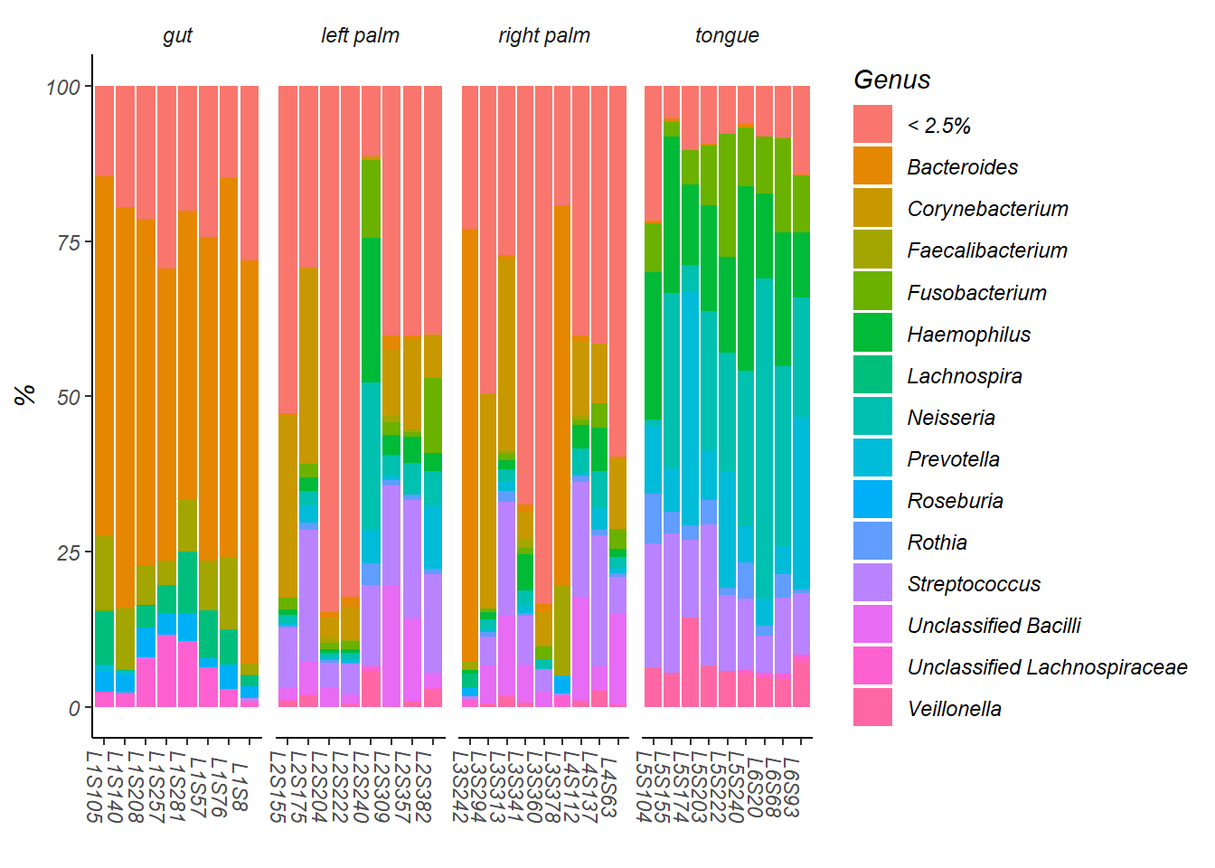
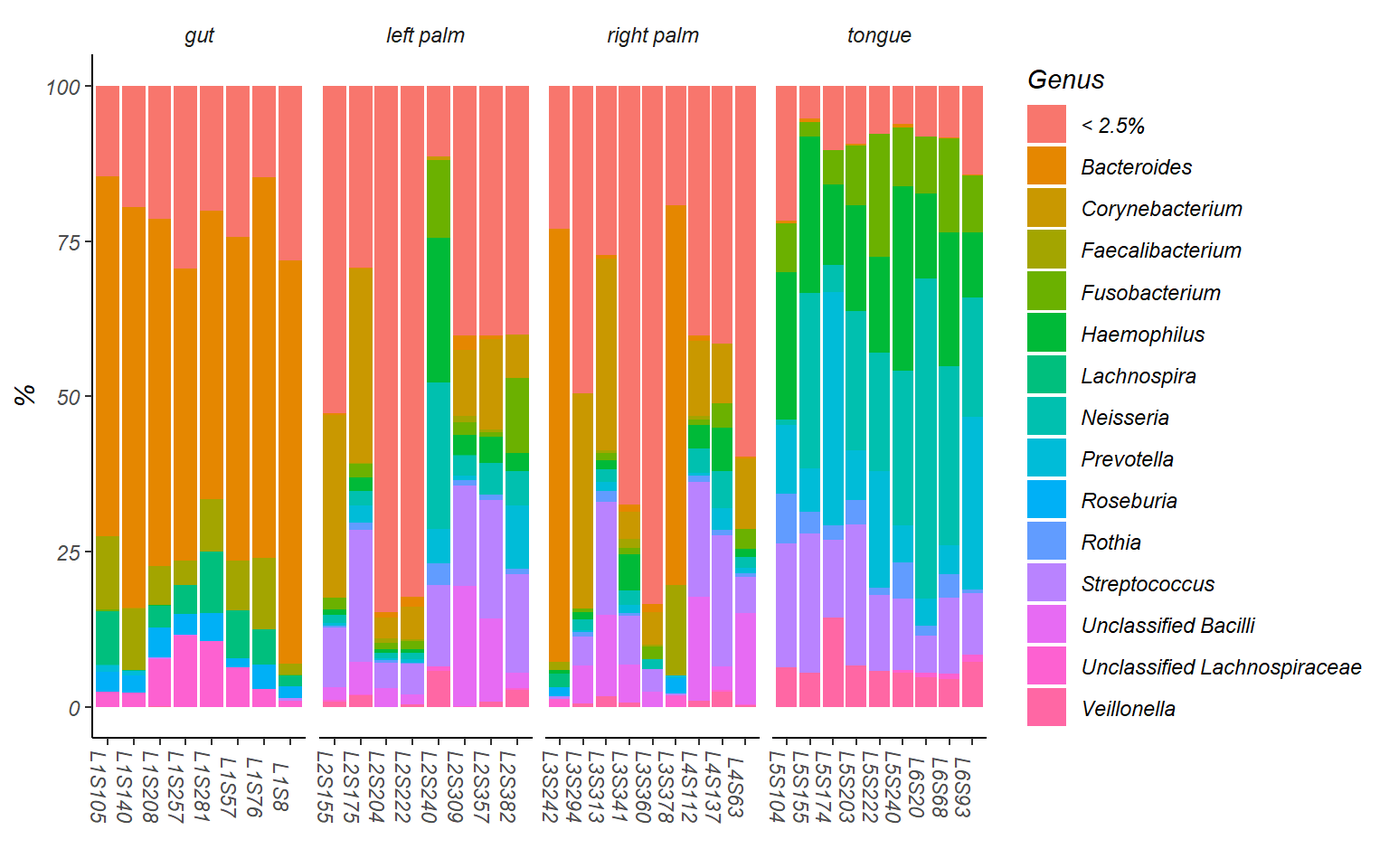
text corrections

diff --git a/docs/1_microbiome_r.html b/docs/1_microbiome_r.html
@@ -418,7 +418,7 @@ $(document).ready(function () {
 </ul>
 <div id="what-you-will-work-on" class="section level2">
 <h2>What you will work on</h2>
-<p>After sequencing, you will get some (<a href="https://en.wikipedia.org/wiki/FASTQ_format">fastq</a>/<a href="https://nanoporetech.com/nanopore-sequencing-data-analysis">fast5</a>/<a href="http://files.pacb.com/software/instrument/2.0.0/bas.h5%20Reference%20Guide.pdf">h5</a>) files from the sequencing. These files contain the base information e.g. quality of collected reads. If the sequenced sample is a mixed community, i.e. metagenomic sequencing, . There are plenty of strategies e.g. Amplicon/Shotgun sequencing to utilize these reads.</p>
+<p>After sequencing, you will get some (<a href="https://en.wikipedia.org/wiki/FASTQ_format">fastq</a>/<a href="https://nanoporetech.com/nanopore-sequencing-data-analysis">fast5</a>/<a href="http://files.pacb.com/software/instrument/2.0.0/bas.h5%20Reference%20Guide.pdf">h5</a>) files from the sequencing. These files contain the base information e.g. read quality. If the sequenced sample is a mixed community, i.e. metagenomics, you need to identify where the reads come from (specific species and samples). There are plenty of strategies for metagenomics such as amplicon and shotgun sequencing. But they give more or less similar <em>structural profiles</em>:</p>
 <ul>
 <li>Feature table (Necessary), a matrix containing the abundances of detected microbial features(OTUs, ASVs, microbial markers)</li>
 <li>Taxonomy table (Optional), an array indicating the taxonomy of the features, which can be integrated in <a href="https://biom-format.org/documentation/format_versions/biom-2.1.html">biom format</a>.</li>
@@ -428,7 +428,7 @@ $(document).ready(function () {
 </div>
 <div id="preparation" class="section level2">
 <h2>Preparation</h2>
-<p><strong>If you are using QIIME 2 pipeline</strong>, <a href="https://docs.qiime2.org/2020.11/concepts/">qza</a>(<em>zipped format named by QIIME 2</em>) files are what you needed. Below are the data from <a href="https://docs.qiime2.org/2020.11/tutorials/moving-pictures/">Moving Pictures</a>.</p>
+<p><strong>Start with QIIME 2 output</strong> Here QIIME 2 data is adopted as an example. If you don’t have QIIME 2 output, if can skip the <code>bash code</code> for <code>QIIME 2</code> below. All data is imported using R built-ins, but QIIME 2 need extra steps outside R. QIIME 2 data file is defined as <a href="https://docs.qiime2.org/2020.11/concepts/">qza</a> format , which is actually just <em>zipped</em> file. Below are data from the <a href="https://docs.qiime2.org/2020.11/tutorials/moving-pictures/">Moving Pictures</a> in QIIME 2.</p>
 <pre><code>## rooted-tree.qza
 ## sample-metadata.tsv
 ## table.qza
@@ -522,9 +522,9 @@ $(document).ready(function () {
 </div>
 <div id="check-the-sequencing-depth-with-rarefaction-curve" class="section level2">
 <h2>Check the sequencing depth with rarefaction curve</h2>
-<p><img src="1_microbiome_r_files/figure-html/rarefaction-1.png" width="672" /></p>
+<p><img src="1_microbiome_r_files/figure-html/rarefaction-1.png" width="768" /></p>
 <p>The sequencing depth is 4523.735 ± 2933.477 (mean ± SD), ranging from 897 to 9820.</p>
-<p>As we could see, a sequencing depth of 1000 has captured most taxonomic tags. To minimize the bias from varying sequenicng depth, it’s recommended to do a rarefaction before calculating diversity metrics. However, it’s <a href="https://journals.plos.org/ploscompbiol/article?id=10.1371/journal.pcbi.1003531">not always the rule of thumb</a>. To keep consistence with the <a href="https://docs.qiime2.org/2020.11/tutorials/moving-pictures/">QIIME 2 tutorial</a>, we rarefy (resample) all samples to the sequencing depth of 1103. (As it’s random sampling process, the result is unlikely to be identical as the <a href="https://docs.qiime2.org/2020.11/tutorials/moving-pictures/">QIIME 2 tutorial</a>)</p>
+<p>As we could see, a sequencing depth of 1000 has captured most taxonomic tags. To minimize the bias from varying sequenicng depth, it’s recommended to do a rarefaction before calculating diversity metrics. However, it’s <a href="https://journals.plos.org/ploscompbiol/article?id=10.1371/journal.pcbi.1003531">not always the rule of thumb</a>. To keep consistence with the <a href="https://docs.qiime2.org/2020.11/tutorials/moving-pictures/">Moving pictures tutorial</a>, we rarefy (resample) all samples to the sequencing depth of 1103. (As it’s random sampling process, the result is unlikely to be identical as the <a href="https://docs.qiime2.org/2020.11/tutorials/moving-pictures/">Moving pictures tutorial</a>)</p>
 <div class="sourceCode" id="cb7"><pre class="sourceCode r"><code class="sourceCode r"><span id="cb7-1"><a href="#cb7-1"></a><span class="kw">set.seed</span>(<span class="dv">111</span>) <span class="co"># keep result reproductive</span></span>
 <span id="cb7-2"><a href="#cb7-2"></a>ps.rarefied =<span class="st"> </span><span class="kw">rarefy_even_depth</span>(ps, <span class="dt">rngseed=</span><span class="dv">1</span>, <span class="dt">sample.size=</span><span class="dv">1103</span>, <span class="dt">replace=</span>F)</span></code></pre></div>
 <p>After rarefaction, the phyloseq looks like</p>
@@ -542,8 +542,8 @@ $(document).ready(function () {
 <span id="cb9-2"><a href="#cb9-2"></a><span class="st">  </span><span class="kw">geom_boxplot</span>() <span class="op">+</span></span>
 <span id="cb9-3"><a href="#cb9-3"></a><span class="st">  </span><span class="kw">theme_classic</span>() <span class="op">+</span></span>
 <span id="cb9-4"><a href="#cb9-4"></a><span class="st">  </span><span class="kw">theme</span>(<span class="dt">strip.background =</span> <span class="kw">element_blank</span>(), <span class="dt">axis.text.x.bottom =</span> <span class="kw">element_text</span>(<span class="dt">angle =</span> <span class="dv">-90</span>))</span></code></pre></div>
-<p><img src="1_microbiome_r_files/figure-html/alpha_diversity-1.png" width="672" /></p>
-<p>We could see tongue samples had the lowest alpha diversity. Next, some statistics: pairwise test with Wilcoxon rank-sum test, with fdr correction. For the number of observed tags,</p>
+<p><img src="1_microbiome_r_files/figure-html/alpha_diversity-1.png" width="768" /></p>
+<p>We could see tongue samples had the lowest alpha diversity. Next, some statistics: pairwise test with Wilcoxon rank-sum test, corrected by FDR method. For the number of observed tags,</p>
 <div class="sourceCode" id="cb10"><pre class="sourceCode r"><code class="sourceCode r"><span id="cb10-1"><a href="#cb10-1"></a>rich =<span class="st"> </span><span class="kw">estimate_richness</span>(ps.rarefied, <span class="dt">measures =</span> <span class="kw">c</span>(<span class="st">&quot;Observed&quot;</span>, <span class="st">&quot;Shannon&quot;</span>))</span>
 <span id="cb10-2"><a href="#cb10-2"></a>wilcox.observed &lt;-<span class="st"> </span><span class="kw">pairwise.wilcox.test</span>(rich<span class="op">$</span>Observed, </span>
 <span id="cb10-3"><a href="#cb10-3"></a>                                        <span class="kw">sample_data</span>(ps.rarefied)<span class="op">$</span>body.site, </span>
@@ -554,8 +554,8 @@ $(document).ready(function () {
 <span id="cb10-8"><a href="#cb10-8"></a><span class="st">  </span><span class="kw">gather</span>(<span class="dt">key=</span><span class="st">&quot;group2&quot;</span>, <span class="dt">value=</span><span class="st">&quot;p.adj&quot;</span>, <span class="op">-</span>group1) <span class="op">%&gt;%</span></span>
 <span id="cb10-9"><a href="#cb10-9"></a><span class="st">  </span><span class="kw">na.omit</span>()</span>
 <span id="cb10-10"><a href="#cb10-10"></a>tab.observed</span></code></pre></div>
-<div id="htmlwidget-198968b1f7866cb87503" style="width:100%;height:auto;" class="datatables html-widget"></div>
-<script type="application/json" data-for="htmlwidget-198968b1f7866cb87503">{"x":{"filter":"none","data":[["left palm","right palm","tongue","right palm","tongue","tongue"],["gut","gut","gut","left palm","left palm","right palm"],[0.309861519622914,1,0.0026441634012951,1,0.0026441634012951,0.0157960566577091]],"container":"<table class=\"display\">\n  <thead>\n    <tr>\n      <th>group1<\/th>\n      <th>group2<\/th>\n      <th>p.adj<\/th>\n    <\/tr>\n  <\/thead>\n<\/table>","options":{"columnDefs":[{"className":"dt-right","targets":2}],"order":[],"autoWidth":false,"orderClasses":false}},"evals":[],"jsHooks":[]}</script>
+<div id="htmlwidget-c58a3cfd46e52aab30d1" style="width:100%;height:auto;" class="datatables html-widget"></div>
+<script type="application/json" data-for="htmlwidget-c58a3cfd46e52aab30d1">{"x":{"filter":"none","data":[["left palm","right palm","tongue","right palm","tongue","tongue"],["gut","gut","gut","left palm","left palm","right palm"],[0.309861519622914,1,0.0026441634012951,1,0.0026441634012951,0.0157960566577091]],"container":"<table class=\"display\">\n  <thead>\n    <tr>\n      <th>group1<\/th>\n      <th>group2<\/th>\n      <th>p.adj<\/th>\n    <\/tr>\n  <\/thead>\n<\/table>","options":{"columnDefs":[{"className":"dt-right","targets":2}],"order":[],"autoWidth":false,"orderClasses":false}},"evals":[],"jsHooks":[]}</script>
 <p>Similarly for Shannon diversity,</p>
 <div class="sourceCode" id="cb11"><pre class="sourceCode r"><code class="sourceCode r"><span id="cb11-1"><a href="#cb11-1"></a>wilcox.shannon &lt;-<span class="st"> </span><span class="kw">pairwise.wilcox.test</span>(rich<span class="op">$</span>Shannon, </span>
 <span id="cb11-2"><a href="#cb11-2"></a>                                       <span class="kw">sample_data</span>(ps.rarefied)<span class="op">$</span>body.site, </span>
@@ -566,12 +566,12 @@ $(document).ready(function () {
 <span id="cb11-7"><a href="#cb11-7"></a><span class="st">  </span><span class="kw">gather</span>(<span class="dt">key=</span><span class="st">&quot;group2&quot;</span>, <span class="dt">value=</span><span class="st">&quot;p.adj&quot;</span>, <span class="op">-</span>group1) <span class="op">%&gt;%</span></span>
 <span id="cb11-8"><a href="#cb11-8"></a><span class="st">  </span><span class="kw">na.omit</span>()</span>
 <span id="cb11-9"><a href="#cb11-9"></a>tab.shannon</span></code></pre></div>
-<div id="htmlwidget-856e6535fd64a5c9fa2a" style="width:100%;height:auto;" class="datatables html-widget"></div>
-<script type="application/json" data-for="htmlwidget-856e6535fd64a5c9fa2a">{"x":{"filter":"none","data":[["left palm","right palm","tongue","right palm","tongue","tongue"],["gut","gut","gut","left palm","left palm","right palm"],[0.0748251748251748,0.17022977022977,0.0719045660222131,0.851814851814852,0.000987248046071575,0.00839160839160839]],"container":"<table class=\"display\">\n  <thead>\n    <tr>\n      <th>group1<\/th>\n      <th>group2<\/th>\n      <th>p.adj<\/th>\n    <\/tr>\n  <\/thead>\n<\/table>","options":{"columnDefs":[{"className":"dt-right","targets":2}],"order":[],"autoWidth":false,"orderClasses":false}},"evals":[],"jsHooks":[]}</script>
+<div id="htmlwidget-be909fc3e6a9583a4930" style="width:100%;height:auto;" class="datatables html-widget"></div>
+<script type="application/json" data-for="htmlwidget-be909fc3e6a9583a4930">{"x":{"filter":"none","data":[["left palm","right palm","tongue","right palm","tongue","tongue"],["gut","gut","gut","left palm","left palm","right palm"],[0.0748251748251748,0.17022977022977,0.0719045660222131,0.851814851814852,0.000987248046071575,0.00839160839160839]],"container":"<table class=\"display\">\n  <thead>\n    <tr>\n      <th>group1<\/th>\n      <th>group2<\/th>\n      <th>p.adj<\/th>\n    <\/tr>\n  <\/thead>\n<\/table>","options":{"columnDefs":[{"className":"dt-right","targets":2}],"order":[],"autoWidth":false,"orderClasses":false}},"evals":[],"jsHooks":[]}</script>
 </div>
 <div id="beta-diversity" class="section level2">
 <h2>Beta diversity</h2>
-<p>Beta diversity assess the dissimilarity between ecosystem, telling you to what extend one community is different from another. Here are some demo code using Bray Curtis and binary Jaccard distance. I personally do not recommend direct use of the UniFrac metrics supported by phyloseq, especially when your tree is not dichotomous. This will happen when some children branches lose their parents during rarefaction 😭. You need to re-root your tree in e.g. QIIME 2 if you run into this case, see <a href="https://github.com/joey711/phyloseq/issues/936">here</a>. Besides, the UniFrac calculation by phyloseq has not been checked with the source code, see the posts in <a href="https://github.com/joey711/phyloseq/issues/956">phyloseq issues</a> and <a href="https://forum.qiime2.org/t/very-different-weighted-unifrac-results-for-qiime2-versus-phyloseq/4591">QIIME 2 forum</a>. So it’s safer to use QIIME 2 version for now given that both QIIME and UniFrac concept came from the <a href="https://knightlab.ucsd.edu/">Knight lab</a>.</p>
+<p>Beta diversity assesses the dissimilarity between ecosystem, telling you to what extend one community is different from another. Here are some demo code using Bray Curtis and binary Jaccard distance. I personally do not recommend direct use of the UniFrac metrics supported by phyloseq, especially when your tree is not dichotomous. This will happen when some children branches lose their parents during rarefaction 😭. You need to re-root your tree in e.g. QIIME 2 if you run into this case, see <a href="https://github.com/joey711/phyloseq/issues/936">here</a>. Besides, the UniFrac calculation by phyloseq has not been checked with the source code, see the posts in <a href="https://github.com/joey711/phyloseq/issues/956">phyloseq issues</a> and <a href="https://forum.qiime2.org/t/very-different-weighted-unifrac-results-for-qiime2-versus-phyloseq/4591">QIIME 2 forum</a>. So it’s safer to use QIIME 2 version for now given that both QIIME and UniFrac concept came from the <a href="https://knightlab.ucsd.edu/">Knight lab</a>.</p>
 <div id="pcoa-and-permanovaadonis" class="section level4">
 <h4><a href="https://mb3is.megx.net/gustame/dissimilarity-based-methods/principal-coordinates-analysis">PCoA</a> and <a href="https://mb3is.megx.net/gustame/hypothesis-tests/manova/npmanova">PERMANOVA/ADONIS</a></h4>
 <ul>
@@ -583,14 +583,14 @@ $(document).ready(function () {
 <span id="cb12-3"><a href="#cb12-3"></a><span class="kw">plot_ordination</span>(ps.rarefied, ordination, <span class="dt">color=</span><span class="st">&quot;body.site&quot;</span>) <span class="op">+</span><span class="st"> </span></span>
 <span id="cb12-4"><a href="#cb12-4"></a><span class="st">  </span><span class="kw">theme_classic</span>() <span class="op">+</span></span>
 <span id="cb12-5"><a href="#cb12-5"></a><span class="st">  </span><span class="kw">theme</span>(<span class="dt">strip.background =</span> <span class="kw">element_blank</span>())</span></code></pre></div>
-<p><img src="1_microbiome_r_files/figure-html/pcoa_bray-1.png" width="672" /></p>
+<p><img src="1_microbiome_r_files/figure-html/pcoa_bray-1.png" width="768" /></p>
 <p><em>PERMANOVA/ADONIS</em></p>
 <div class="sourceCode" id="cb13"><pre class="sourceCode r"><code class="sourceCode r"><span id="cb13-1"><a href="#cb13-1"></a>metadata &lt;-<span class="st"> </span><span class="kw">data.frame</span>(<span class="kw">sample_data</span>(ps.rarefied))</span>
 <span id="cb13-2"><a href="#cb13-2"></a>test.adonis &lt;-<span class="st"> </span><span class="kw">adonis</span>(dist <span class="op">~</span><span class="st"> </span>body.site, <span class="dt">data =</span> metadata)</span>
 <span id="cb13-3"><a href="#cb13-3"></a>test.adonis &lt;-<span class="st"> </span><span class="kw">as.data.frame</span>(test.adonis<span class="op">$</span>aov.tab)</span>
 <span id="cb13-4"><a href="#cb13-4"></a>test.adonis</span></code></pre></div>
-<div id="htmlwidget-2baaa3f848dd16ef2591" style="width:100%;height:auto;" class="datatables html-widget"></div>
-<script type="application/json" data-for="htmlwidget-2baaa3f848dd16ef2591">{"x":{"filter":"none","data":[["body.site","Residuals","Total"],[3,27,30],[5.21390787395429,5.88330179759205,11.0972096715463],[1.7379692913181,0.217900066577483,null],[7.97599247497289,null,null],[0.469839538791715,0.530160461208285,1],[0.001,null,null]],"container":"<table class=\"display\">\n  <thead>\n    <tr>\n      <th> <\/th>\n      <th>Df<\/th>\n      <th>SumsOfSqs<\/th>\n      <th>MeanSqs<\/th>\n      <th>F.Model<\/th>\n      <th>R2<\/th>\n      <th>Pr(&gt;F)<\/th>\n    <\/tr>\n  <\/thead>\n<\/table>","options":{"columnDefs":[{"className":"dt-right","targets":[1,2,3,4,5,6]},{"orderable":false,"targets":0}],"order":[],"autoWidth":false,"orderClasses":false}},"evals":[],"jsHooks":[]}</script>
+<div id="htmlwidget-65f24cfd8c4a0e3e6164" style="width:100%;height:auto;" class="datatables html-widget"></div>
+<script type="application/json" data-for="htmlwidget-65f24cfd8c4a0e3e6164">{"x":{"filter":"none","data":[["body.site","Residuals","Total"],[3,27,30],[5.21390787395429,5.88330179759205,11.0972096715463],[1.7379692913181,0.217900066577483,null],[7.97599247497289,null,null],[0.469839538791715,0.530160461208285,1],[0.001,null,null]],"container":"<table class=\"display\">\n  <thead>\n    <tr>\n      <th> <\/th>\n      <th>Df<\/th>\n      <th>SumsOfSqs<\/th>\n      <th>MeanSqs<\/th>\n      <th>F.Model<\/th>\n      <th>R2<\/th>\n      <th>Pr(&gt;F)<\/th>\n    <\/tr>\n  <\/thead>\n<\/table>","options":{"columnDefs":[{"className":"dt-right","targets":[1,2,3,4,5,6]},{"orderable":false,"targets":0}],"order":[],"autoWidth":false,"orderClasses":false}},"evals":[],"jsHooks":[]}</script>
 <p><em>PAIRWISE PERMANOVA</em></p>
 <div class="sourceCode" id="cb14"><pre class="sourceCode r"><code class="sourceCode r"><span id="cb14-1"><a href="#cb14-1"></a>cbn &lt;-<span class="st"> </span><span class="kw">combn</span>(<span class="dt">x=</span><span class="kw">unique</span>(metadata<span class="op">$</span>body.site), <span class="dt">m =</span> <span class="dv">2</span>)</span>
 <span id="cb14-2"><a href="#cb14-2"></a>p &lt;-<span class="st"> </span><span class="kw">c</span>()</span>
@@ -606,8 +606,8 @@ $(document).ready(function () {
 <span id="cb14-12"><a href="#cb14-12"></a>p.adj &lt;-<span class="st"> </span><span class="kw">p.adjust</span>(p, <span class="dt">method =</span> <span class="st">&quot;BH&quot;</span>)</span>
 <span id="cb14-13"><a href="#cb14-13"></a>p.table &lt;-<span class="st"> </span><span class="kw">cbind.data.frame</span>(<span class="kw">t</span>(cbn), <span class="dt">p=</span>p, <span class="dt">p.adj=</span>p.adj)</span>
 <span id="cb14-14"><a href="#cb14-14"></a>p.table</span></code></pre></div>
-<div id="htmlwidget-b837bdd70c7e0cc7de8a" style="width:100%;height:auto;" class="datatables html-widget"></div>
-<script type="application/json" data-for="htmlwidget-b837bdd70c7e0cc7de8a">{"x":{"filter":"none","data":[["gut","gut","gut","left palm","left palm","right palm"],["left palm","right palm","tongue","right palm","tongue","tongue"],[0.001,0.003,0.001,0.942,0.001,0.002],[0.002,0.0036,0.002,0.942,0.002,0.003]],"container":"<table class=\"display\">\n  <thead>\n    <tr>\n      <th>1<\/th>\n      <th>2<\/th>\n      <th>p<\/th>\n      <th>p.adj<\/th>\n    <\/tr>\n  <\/thead>\n<\/table>","options":{"columnDefs":[{"className":"dt-right","targets":[2,3]}],"order":[],"autoWidth":false,"orderClasses":false}},"evals":[],"jsHooks":[]}</script>
+<div id="htmlwidget-ec2940e89f0fca8cde0f" style="width:100%;height:auto;" class="datatables html-widget"></div>
+<script type="application/json" data-for="htmlwidget-ec2940e89f0fca8cde0f">{"x":{"filter":"none","data":[["gut","gut","gut","left palm","left palm","right palm"],["left palm","right palm","tongue","right palm","tongue","tongue"],[0.001,0.003,0.001,0.942,0.001,0.002],[0.002,0.0036,0.002,0.942,0.002,0.003]],"container":"<table class=\"display\">\n  <thead>\n    <tr>\n      <th>1<\/th>\n      <th>2<\/th>\n      <th>p<\/th>\n      <th>p.adj<\/th>\n    <\/tr>\n  <\/thead>\n<\/table>","options":{"columnDefs":[{"className":"dt-right","targets":[2,3]}],"order":[],"autoWidth":false,"orderClasses":false}},"evals":[],"jsHooks":[]}</script>
 <p>As we could see, there’s no difference in composition between the left and right palm samples. Similar result can be found using binary Jaccard metrics. Adjust the <code>dist = distance(ps.rarefied, method="jaccard", binary = TRUE)</code> and <code>permanova_pairwise &lt;- adonis(distance(ps.subs, method="jaccard", binary = TRUE) ~ body.site, data = metadata_sub)</code>, give it a try</p>
 </div>
 <div id="nmds-and-anosim" class="section level4">
@@ -621,7 +621,7 @@ $(document).ready(function () {
 <div class="sourceCode" id="cb16"><pre class="sourceCode r"><code class="sourceCode r"><span id="cb16-1"><a href="#cb16-1"></a><span class="kw">plot_ordination</span>(ps.rarefied, ordination, <span class="dt">color=</span><span class="st">&quot;body.site&quot;</span>) <span class="op">+</span><span class="st"> </span></span>
 <span id="cb16-2"><a href="#cb16-2"></a><span class="st">  </span><span class="kw">theme_classic</span>() <span class="op">+</span></span>
 <span id="cb16-3"><a href="#cb16-3"></a><span class="st">  </span><span class="kw">theme</span>(<span class="dt">strip.background =</span> <span class="kw">element_blank</span>())</span></code></pre></div>
-<p><img src="1_microbiome_r_files/figure-html/unnamed-chunk-19-1.png" width="672" /></p>
+<p><img src="1_microbiome_r_files/figure-html/unnamed-chunk-19-1.png" width="768" /></p>
 <p><em>ANOSIM</em></p>
 <div class="sourceCode" id="cb17"><pre class="sourceCode r"><code class="sourceCode r"><span id="cb17-1"><a href="#cb17-1"></a>metadata &lt;-<span class="st"> </span><span class="kw">data.frame</span>(<span class="kw">sample_data</span>(ps.rarefied))</span>
 <span id="cb17-2"><a href="#cb17-2"></a><span class="kw">anosim</span>(dist, metadata<span class="op">$</span>body.site)</span></code></pre></div>
@@ -649,8 +649,8 @@ $(document).ready(function () {
 <span id="cb19-11"><a href="#cb19-11"></a></span>
 <span id="cb19-12"><a href="#cb19-12"></a>p.adj &lt;-<span class="st"> </span><span class="kw">p.adjust</span>(p, <span class="dt">method =</span> <span class="st">&quot;BH&quot;</span>)</span>
 <span id="cb19-13"><a href="#cb19-13"></a>p.table &lt;-<span class="st"> </span><span class="kw">cbind.data.frame</span>(<span class="kw">t</span>(cbn), <span class="dt">p=</span>p, <span class="dt">p.adj=</span>p.adj)</span></code></pre></div>
-<div id="htmlwidget-6ab8f2c764339827e621" style="width:100%;height:auto;" class="datatables html-widget"></div>
-<script type="application/json" data-for="htmlwidget-6ab8f2c764339827e621">{"x":{"filter":"none","data":[["gut","gut","gut","left palm","left palm","right palm"],["left palm","right palm","tongue","right palm","tongue","tongue"],[0.001,0.001,0.001,0.765,0.001,0.001],[0.0012,0.0012,0.0012,0.765,0.0012,0.0012]],"container":"<table class=\"display\">\n  <thead>\n    <tr>\n      <th>1<\/th>\n      <th>2<\/th>\n      <th>p<\/th>\n      <th>p.adj<\/th>\n    <\/tr>\n  <\/thead>\n<\/table>","options":{"columnDefs":[{"className":"dt-right","targets":[2,3]}],"order":[],"autoWidth":false,"orderClasses":false}},"evals":[],"jsHooks":[]}</script>
+<div id="htmlwidget-c2024b6b284cf21765a6" style="width:100%;height:auto;" class="datatables html-widget"></div>
+<script type="application/json" data-for="htmlwidget-c2024b6b284cf21765a6">{"x":{"filter":"none","data":[["gut","gut","gut","left palm","left palm","right palm"],["left palm","right palm","tongue","right palm","tongue","tongue"],[0.001,0.001,0.001,0.765,0.001,0.001],[0.0012,0.0012,0.0012,0.765,0.0012,0.0012]],"container":"<table class=\"display\">\n  <thead>\n    <tr>\n      <th>1<\/th>\n      <th>2<\/th>\n      <th>p<\/th>\n      <th>p.adj<\/th>\n    <\/tr>\n  <\/thead>\n<\/table>","options":{"columnDefs":[{"className":"dt-right","targets":[2,3]}],"order":[],"autoWidth":false,"orderClasses":false}},"evals":[],"jsHooks":[]}</script>
 <p>The NMDS and ANOSIM result were similar to that from PCoA and ADONIS.</p>
 </div>
 </div>
@@ -685,7 +685,7 @@ $(document).ready(function () {
 <span id="cb20-23"><a href="#cb20-23"></a><span class="st">  </span><span class="kw">theme_classic</span>() <span class="op">+</span><span class="st"> </span></span>
 <span id="cb20-24"><a href="#cb20-24"></a><span class="st">  </span><span class="kw">theme</span>(<span class="dt">strip.background =</span> <span class="kw">element_blank</span>(), </span>
 <span id="cb20-25"><a href="#cb20-25"></a>        <span class="dt">axis.text.x.bottom =</span> <span class="kw">element_text</span>(<span class="dt">angle =</span> <span class="dv">-90</span>))</span></code></pre></div>
-<p><img src="1_microbiome_r_files/figure-html/phylum_abun-1.png" width="672" /> <code>&lt; 1%</code> indicates rare taxa in each group, with median relative abundance &lt; 1%.</p>
+<p><img src="1_microbiome_r_files/figure-html/phylum_abun-1.png" width="768" /> <code>&lt; 1%</code> indicates rare taxa in each group, with median relative abundance &lt; 1%.</p>
 <ul>
 <li><em>Genus</em></li>
 </ul>
@@ -715,7 +715,7 @@ $(document).ready(function () {
 <span id="cb21-24"><a href="#cb21-24"></a><span class="st">  </span><span class="kw">theme</span>(<span class="dt">legend.position =</span> <span class="st">&quot;right&quot;</span>, </span>
 <span id="cb21-25"><a href="#cb21-25"></a>        <span class="dt">strip.background =</span> <span class="kw">element_blank</span>(), </span>
 <span id="cb21-26"><a href="#cb21-26"></a>        <span class="dt">axis.text.x.bottom =</span> <span class="kw">element_text</span>(<span class="dt">angle =</span> <span class="dv">-90</span>))</span></code></pre></div>
-<p><img src="1_microbiome_r_files/figure-html/genus_abun-1.png" width="672" /> <code>&lt; 2.5%</code> indicates rare taxa in each group, with median relative abundance &lt; 2.5%.</p>
+<p><img src="1_microbiome_r_files/figure-html/genus_abun-1.png" width="768" /> <code>&lt; 2.5%</code> indicates rare taxa in each group, with median relative abundance &lt; 2.5%.</p>
 </div>
 <div id="differential-abundance-analysis" class="section level2">
 <h2>Differential abundance analysis</h2>
@@ -740,8 +740,8 @@ $(document).ready(function () {
 <span id="cb23-12"><a href="#cb23-12"></a>ps.taxa.rel.sig &lt;-<span class="st"> </span><span class="kw">prune_taxa</span>(taxa_sig, ps.taxa.rel)</span>
 <span id="cb23-13"><a href="#cb23-13"></a><span class="co"># Only keep gut and tongue samples</span></span>
 <span id="cb23-14"><a href="#cb23-14"></a>ps.taxa.rel.sig &lt;-<span class="st"> </span><span class="kw">prune_samples</span>(<span class="kw">colnames</span>(<span class="kw">otu_table</span>(ps.taxa.pse.sub)), ps.taxa.rel.sig)</span></code></pre></div>
-<p>Visualize these biomarkers in heatmap using R package <a href="https://bioconductor.org/packages/release/bioc/html/ComplexHeatmap.html">ComplexHeatmap</a>, which is a improved package on the basis of pheatmap. A detailed reference book about ComplexHeatmap is <a href="https://jokergoo.github.io/ComplexHeatmap-reference/book/">here</a>. I like it because of its flexibility relative to built-in heatmap(), gplots::heatmap.2(), pheatmap::pheatmap() and heatmap3::heatmap(). However, the mentioned ones can also be adopted given the same theory of heatmap. The added function <a href="https://jokergoo.github.io/ComplexHeatmap-reference/book/integrate-with-other-packages.html#pheatmap">ComplexHeatmap::pheatmap</a> inherited most settings of pheatmap, so I adopt it to make code easily understood.</p>
-<p>To make <code>pheatmap</code> specfic, the package is specified as ComplexHeatmap::pheatmap</p>
+<p>Visualize these biomarkers in heatmap using R package <a href="https://bioconductor.org/packages/release/bioc/html/ComplexHeatmap.html">ComplexHeatmap</a>, which is an improved package on the basis of pheatmap. A detailed reference book about ComplexHeatmap is <a href="https://jokergoo.github.io/ComplexHeatmap-reference/book/">here</a>. I like it because of its flexibility relative to built-in heatmap(), gplots::heatmap.2(), pheatmap::pheatmap() and heatmap3::heatmap(). However, the mentioned ones can also be adopted given the same theory of heatmap. The added function <a href="https://jokergoo.github.io/ComplexHeatmap-reference/book/integrate-with-other-packages.html#pheatmap">ComplexHeatmap::pheatmap</a> inherited most settings of pheatmap, so I adopt it to make code easily understood.</p>
+<p>To make <code>pheatmap</code> specfic, it is written as <code>ComplexHeatmap::pheatmap</code></p>
 <div class="sourceCode" id="cb24"><pre class="sourceCode r"><code class="sourceCode r"><span id="cb24-1"><a href="#cb24-1"></a>matrix &lt;-<span class="st"> </span><span class="kw">as.matrix</span>(<span class="kw">data.frame</span>(<span class="kw">otu_table</span>(ps.taxa.rel.sig)))</span>
 <span id="cb24-2"><a href="#cb24-2"></a><span class="kw">rownames</span>(matrix) &lt;-<span class="st"> </span><span class="kw">as.character</span>(<span class="kw">tax_table</span>(ps.taxa.rel.sig)[, <span class="st">&quot;Species&quot;</span>])</span>
 <span id="cb24-3"><a href="#cb24-3"></a>metadata_sub &lt;-<span class="st"> </span><span class="kw">data.frame</span>(<span class="kw">sample_data</span>(ps.taxa.rel.sig))</span>
@@ -771,11 +771,11 @@ $(document).ready(function () {
 <span id="cb24-27"><a href="#cb24-27"></a>                         <span class="dt">annotation_col =</span> annotation_col, </span>
 <span id="cb24-28"><a href="#cb24-28"></a>                         <span class="dt">annotation_row =</span> annotation_row, </span>
 <span id="cb24-29"><a href="#cb24-29"></a>                         <span class="dt">annotation_colors =</span> ann_colors)</span></code></pre></div>
-<p><img src="1_microbiome_r_files/figure-html/deseq2-1.png" width="672" /></p>
+<p><img src="1_microbiome_r_files/figure-html/deseq2-1.png" width="768" /></p>
 </div>
 <div id="ancom-bc" class="section level3">
 <h3>ANCOM-BC</h3>
-<p>Here I will introduce another statistical method specially designed for Microbiome data. I like its theory behind - sequencing is a process of sampling. For a microbial community under adequate sequencing, the ratio of two specific taxa should be theoretically the “same” between their profiled relative abundances and the absolute abundance. The theory can be found in their <a href="https://www.nature.com/articles/s41467-020-17041-7">published paper</a>. ANCOM is one recommended method by QIIME 2 and similar theory is also adopted in another QIIME 2 plugin- <a href="https://docs.qiime2.org/2020.11/tutorials/gneiss/">Geneiss</a>. ANCOM is originally written in R and hosted in NIH, but the link expired now. The <a href="https://docs.qiime2.org/2020.11/plugins/available/composition/">q2-compositon</a> plugin is one accessible version to my knowledge. In that QIIME has no R API, I recommend to use improved ANCOM version e.g. <a href="https://github.com/FrederickHuangLin/ANCOM">ANCOM 2</a> and <a href="https://github.com/FrederickHuangLin/ANCOMBC">ANCOM-BC</a> if you only eat R code. These two have not been included in QIIME 2 and maintained by the lab members of the original ANCOM paper. The key differences between ANCOM 2 and ANCOM are how they treat <em>zeros</em> and introduced process of repeated data, and more can be found in the <a href="https://www.ncbi.nlm.nih.gov/pmc/articles/PMC5682008/">paper</a>. Considering the structure of code, ANCOM 2 is more like a wrapper function of ANCOM, especially relative to ANCOM-BC. ANCOM-BC inherited the methodology of preprocessing <em>zeros</em> in ANCOM but estimated the sampling bias by linear regression. Besides, it provides <em>p</em> values and according to the author, it is blazingly fast while controlling the FDR and maintaining adequate power as ANCOM. ANCOM-BC is maintained at <a href="http://www.bioconductor.org/packages/release/bioc/html/ANCOMBC.html">bioconductor</a>, and a vignette is <a href="http://www.bioconductor.org/packages/release/bioc/vignettes/ANCOMBC/inst/doc/ANCOMBC.html">here</a>. It’s worth noting that ANCOM-BC is in development and now (Jan 2021) <a href="https://github.com/FrederickHuangLin/ANCOMBC/issues/5">only support testing for co-variates and global test</a>.</p>
+<p>Here I will introduce another statistical method specially designed for Microbiome data. I like its theory behind - sequencing is a process of sampling. For a microbial community under adequate sequencing, the ratio of two specific taxa should be theoretically the “same” between their profiled relative abundances and the absolute abundance. The theory can be found in their <a href="https://www.nature.com/articles/s41467-020-17041-7">published paper</a>. ANCOM is one recommended method by QIIME 2 and similar theory is also adopted in another QIIME 2 plugin- <a href="https://docs.qiime2.org/2020.11/tutorials/gneiss/">Geneiss</a>. ANCOM is originally written in R and hosted in NIH, but the link has expired now. The <a href="https://docs.qiime2.org/2020.11/plugins/available/composition/">q2-compositon</a> plugin is one accessible version to my knowledge. In that QIIME has no R API, I recommend to use improved ANCOM version e.g. <a href="https://github.com/FrederickHuangLin/ANCOM">ANCOM 2</a> and <a href="https://github.com/FrederickHuangLin/ANCOMBC">ANCOM-BC</a> if you only eat R code. These two have not been included in QIIME 2 and maintained by the lab members of the original ANCOM paper. The key differences between ANCOM 2 and ANCOM are how they treat <em>zeros</em> and introduced process of repeated data, and more can be found in the <a href="https://www.ncbi.nlm.nih.gov/pmc/articles/PMC5682008/">paper</a>. Considering the structure of code, ANCOM 2 is more like a wrapped R function of ANCOM, especially relative to ANCOM-BC. ANCOM-BC inherited the methodology of preprocessing <em>zeros</em> in ANCOM but estimated the sampling bias by linear regression. Besides, it provides <em>p</em> values and according to the author, it is blazingly fast while controlling the FDR and maintaining adequate power. ANCOM-BC is maintained at <a href="http://www.bioconductor.org/packages/release/bioc/html/ANCOMBC.html">bioconductor</a>, and a vignette is <a href="http://www.bioconductor.org/packages/release/bioc/vignettes/ANCOMBC/inst/doc/ANCOMBC.html">here</a>. It’s worth noting that ANCOM-BC is in development and now (Jan 2021) <a href="https://github.com/FrederickHuangLin/ANCOMBC/issues/5">only support testing for co-variates and global test</a>.</p>
 <p>So we adopt ANCOM-BC to repeat the test above. And here it takes <em>gut</em> label as a reference to other <em>body site</em> groups.</p>
 <div class="sourceCode" id="cb25"><pre class="sourceCode r"><code class="sourceCode r"><span id="cb25-1"><a href="#cb25-1"></a><span class="co"># pairwise comparison between gut and tongue</span></span>
 <span id="cb25-2"><a href="#cb25-2"></a>ps.taxa.sub &lt;-<span class="st"> </span><span class="kw">subset_samples</span>(ps.taxa, body.site <span class="op">%in%</span><span class="st"> </span><span class="kw">c</span>(<span class="st">&quot;gut&quot;</span>, <span class="st">&quot;tongue&quot;</span>))</span>
@@ -820,7 +820,7 @@ $(document).ready(function () {
 <span id="cb26-26"><a href="#cb26-26"></a>                         <span class="dt">annotation_col =</span> annotation_col, </span>
 <span id="cb26-27"><a href="#cb26-27"></a>                         <span class="dt">annotation_row =</span> annotation_row, </span>
 <span id="cb26-28"><a href="#cb26-28"></a>                         <span class="dt">annotation_colors =</span> ann_colors)</span></code></pre></div>
-<p><img src="1_microbiome_r_files/figure-html/ancombc-1.png" width="672" /></p>
+<p><img src="1_microbiome_r_files/figure-html/ancombc-1.png" width="768" /></p>
 <p>The <em>mini</em>-tour shall end here. In that you know how to import the microbiome data in R, you can continue exploring your data according to diverse tutorials including <a href="https://joey711.github.io/phyloseq/">phyloseq</a> from U.S., <a href="https://madsalbertsen.github.io/ampvis2/articles/ampvis2.html">ampvis2</a> from Denmark, and <a href="https://yulab-smu.top/MicrobiotaProcessWorkshop/articles/MicrobiotaProcessWorkshop.html">MicrobiotaProcess</a> from China.</p>
 <p>If you want a GUI software for your microbiome analysis, you may like <a href="https://www.microbiomeanalyst.ca/">microbiomeanalyst</a>, which was recently published on <a href="https://www.nature.com/articles/s41596-019-0264-1">Nature protocol</a>. I haven’t tried it yet in that I hate mouse clicking.😱</p>
 </div>

diff --git a/docs/index.html b/docs/index.html
@@ -288,16 +288,9 @@ $(document).ready(function () {
 
 </div>
 
-<div id="TOC">
-<ul>
-<li><a href="#welcome-to-the-microbiome-analysis-tutorial-at-ku-food"><strong>Welcome to the microbiome analysis tutorial at KU FOOD</strong></a></li>
-</ul>
-</div>
 
-<div id="welcome-to-the-microbiome-analysis-tutorial-at-ku-food" class="section level2">
-<h2><strong>Welcome to the microbiome analysis tutorial at KU FOOD</strong></h2>
+<p><strong>Welcome to the microbiome analysis tutorial at KU FOOD</strong></p>
 <p><img src="https://media.giphy.com/media/OkJat1YNdoD3W/source.gif" /></p>
-</div>
 
 <p>Copyright &copy; 2021 KU FOOD. All rights reserved.</p>
 

diff --git a/README.md b/README.md
@@ -1,5 +1,5 @@
 # microbiome_analysis
-Repository for the microbiome analysis
+Repository for the Github pages: [Microbiome analysis at KU FOOD](https://yanhui09.github.io/microbiome_analysis/)
 
 Steps to render the static website:
 1. Render *.Rmd files  in R after install [rmarkdown](https://rmarkdown.rstudio.com/authoring_quick_tour.html).
@@ -13,9 +13,9 @@ rmarkdown::render("index.Rmd")
 ```r
 rmarkdown::render_site()
 ```
-3. change `./_site/` according to your choice (/docs is used to hold Github pages)
+3. change `_site/` according to your choice (/docs is used to hold Github pages)
 
-```
+```bash
 mv _site docs
 ```
 More details about R markdown can be found on Rstudio website: [here](https://rmarkdown.rstudio.com/authoring_quick_tour.html) and [there](https://rmarkdown.rstudio.com/lesson-1.html).
